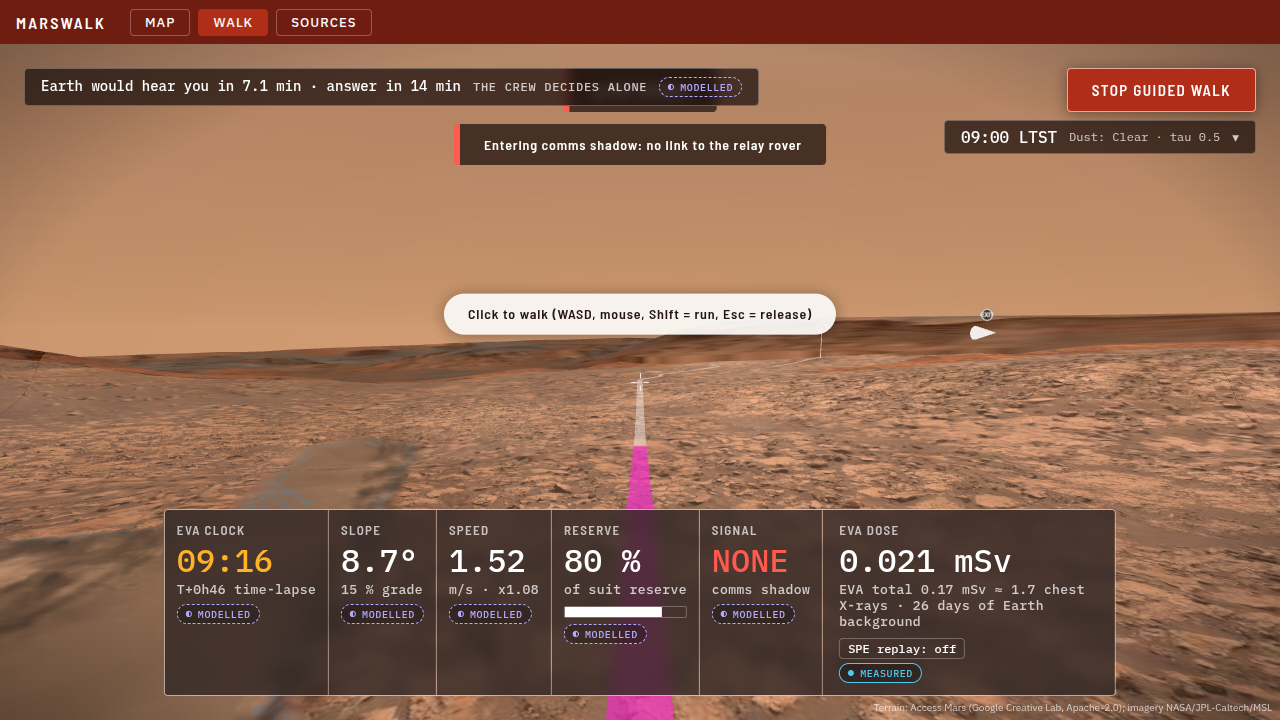
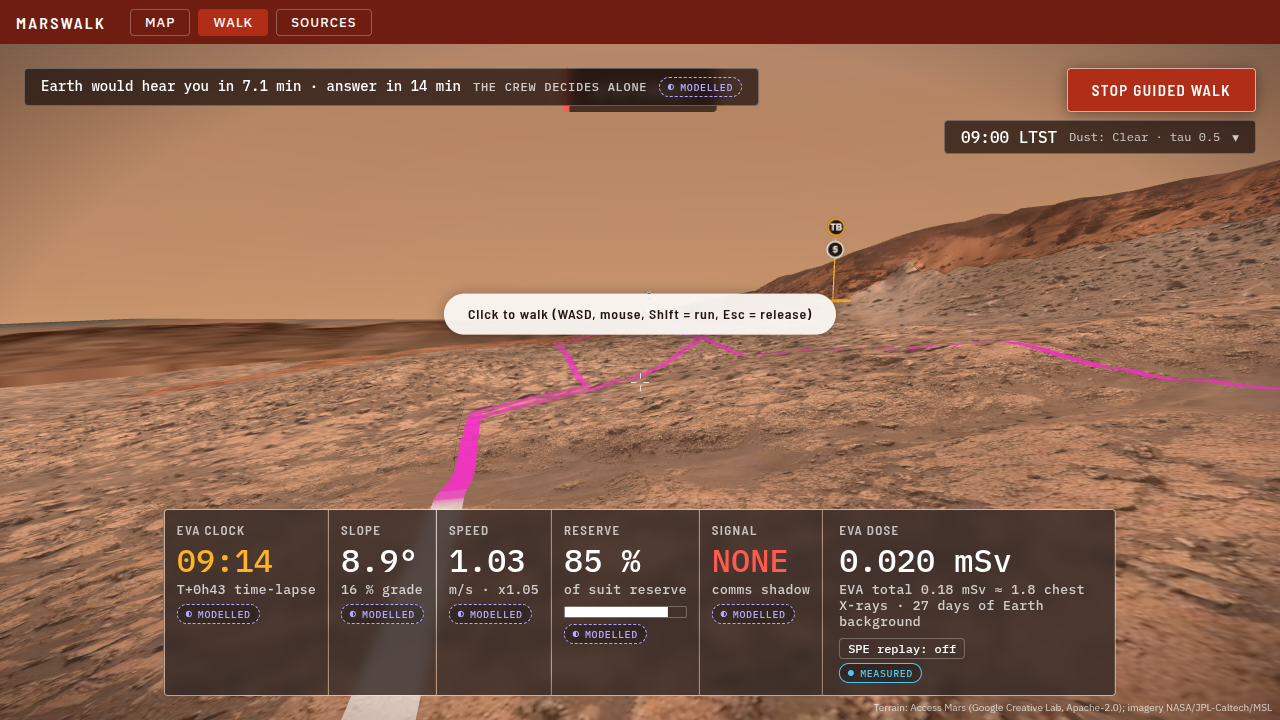
designer: task 020 walk HUD drama and UI fixes

diff --git a/app/src/walk/route3d.js b/app/src/walk/route3d.js
@@ -111,7 +111,8 @@ export function mountRoute3d({ scene, state, groundRaycast, hAt, container, eye 
       m.position.set(x, y + h / 2, z); group.add(m);
       const sp = labelSprite(label, '#' + new THREE.Color(color).getHexString()); sp.position.set(x, y + h + 0.7, z); group.add(sp);
     };
-    (route.waypoints || []).forEach((w, i) => { const p = ts(w.x, w.y); if (inside(p.x, p.z)) pole(p.x, p.z, 3, colRoute, i === 0 ? 'L' : String(i)); });
+    (route.waypoints || []).forEach((w, i) => { const p = ts(w.x, w.y); if (inside(p.x, p.z)) pole(p.x, p.z, 3, colRoute, String(i + 1)); });
+    if (route.start) { const p = ts(route.start.x, route.start.y); if (inside(p.x, p.z)) pole(p.x, p.z, 3, colRoute, 'L'); } // lander
     const tb = route.turnBackIndex;
     if (Number.isInteger(tb) && tb > 0 && tb < P.length && inside(sc[tb].x, sc[tb].z)) {
       pole(sc[tb].x, sc[tb].z, 4.5, colTurn, 'TB');

diff --git a/tasks/020-walk-hud-drama.md b/tasks/020-walk-hud-drama.md
@@ -1,6 +1,6 @@
 # 020 Walk HUD drama, sky and small UI fixes
 owner: designer
-state: open
+state: done
 area: app/src/walk/hud.js, app/src/walk/sky.js, app/src/styles/*, app/src/ui/briefing.js, app/src/ui/loading.js
 
 ## Goal
